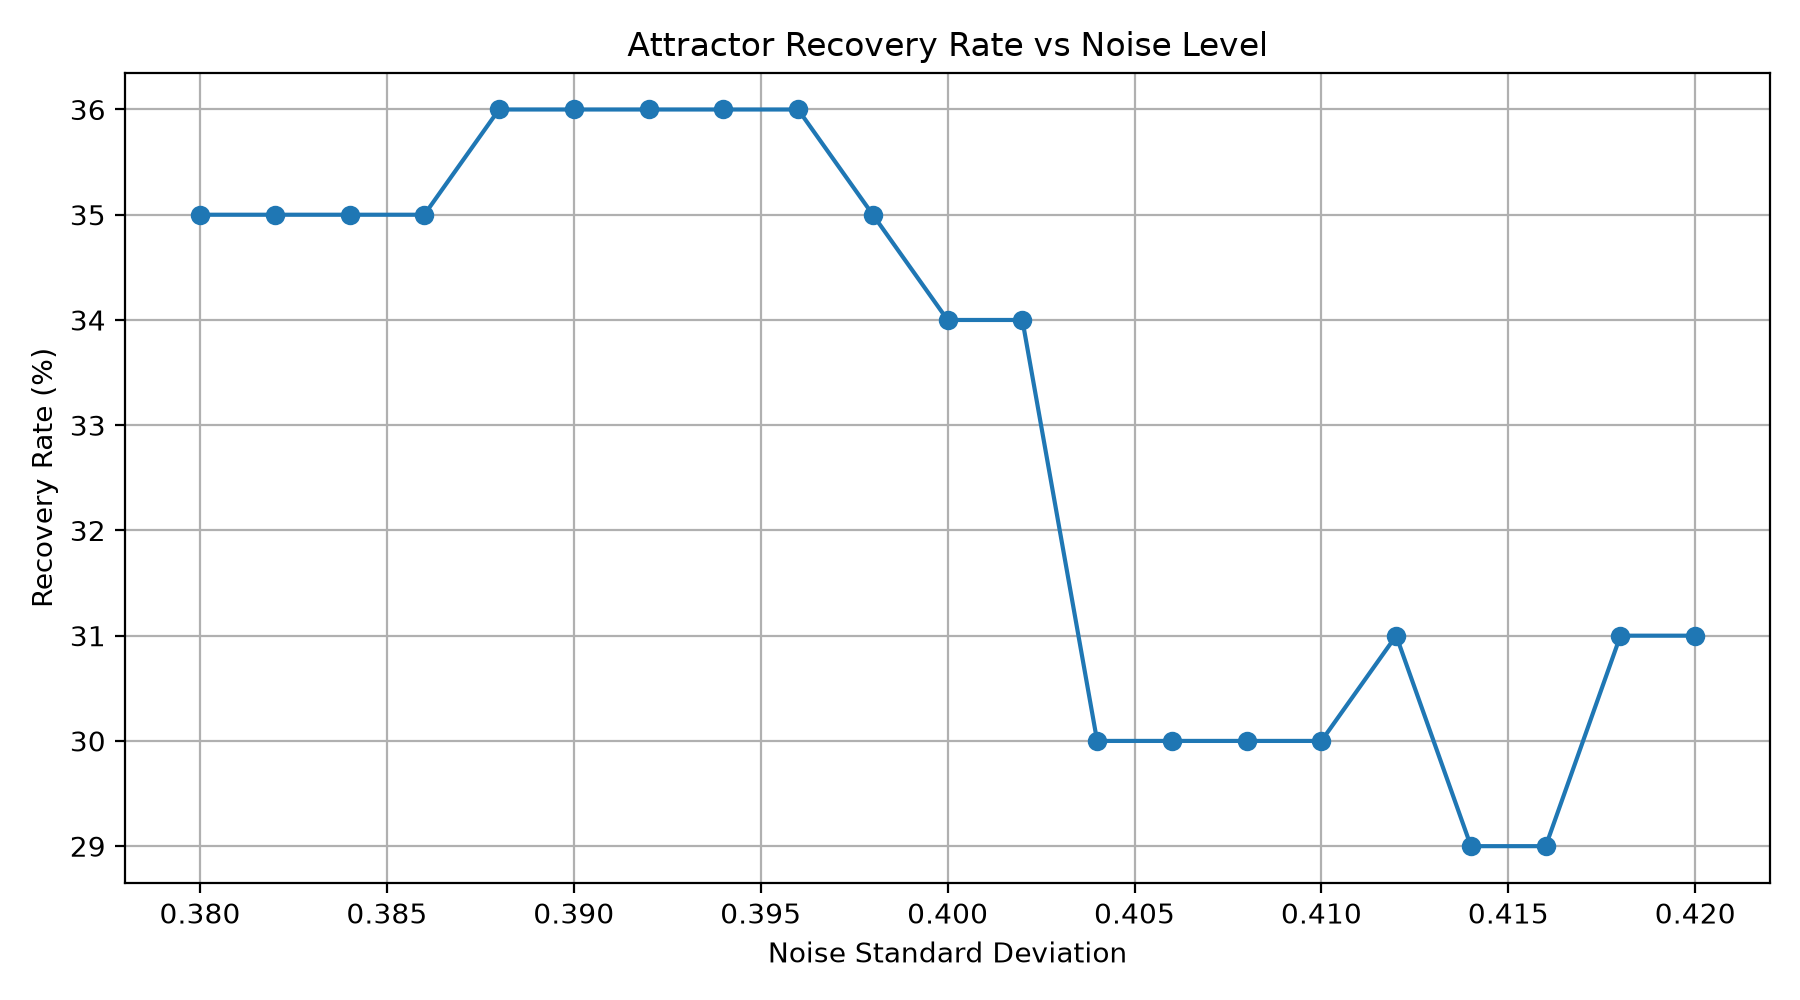
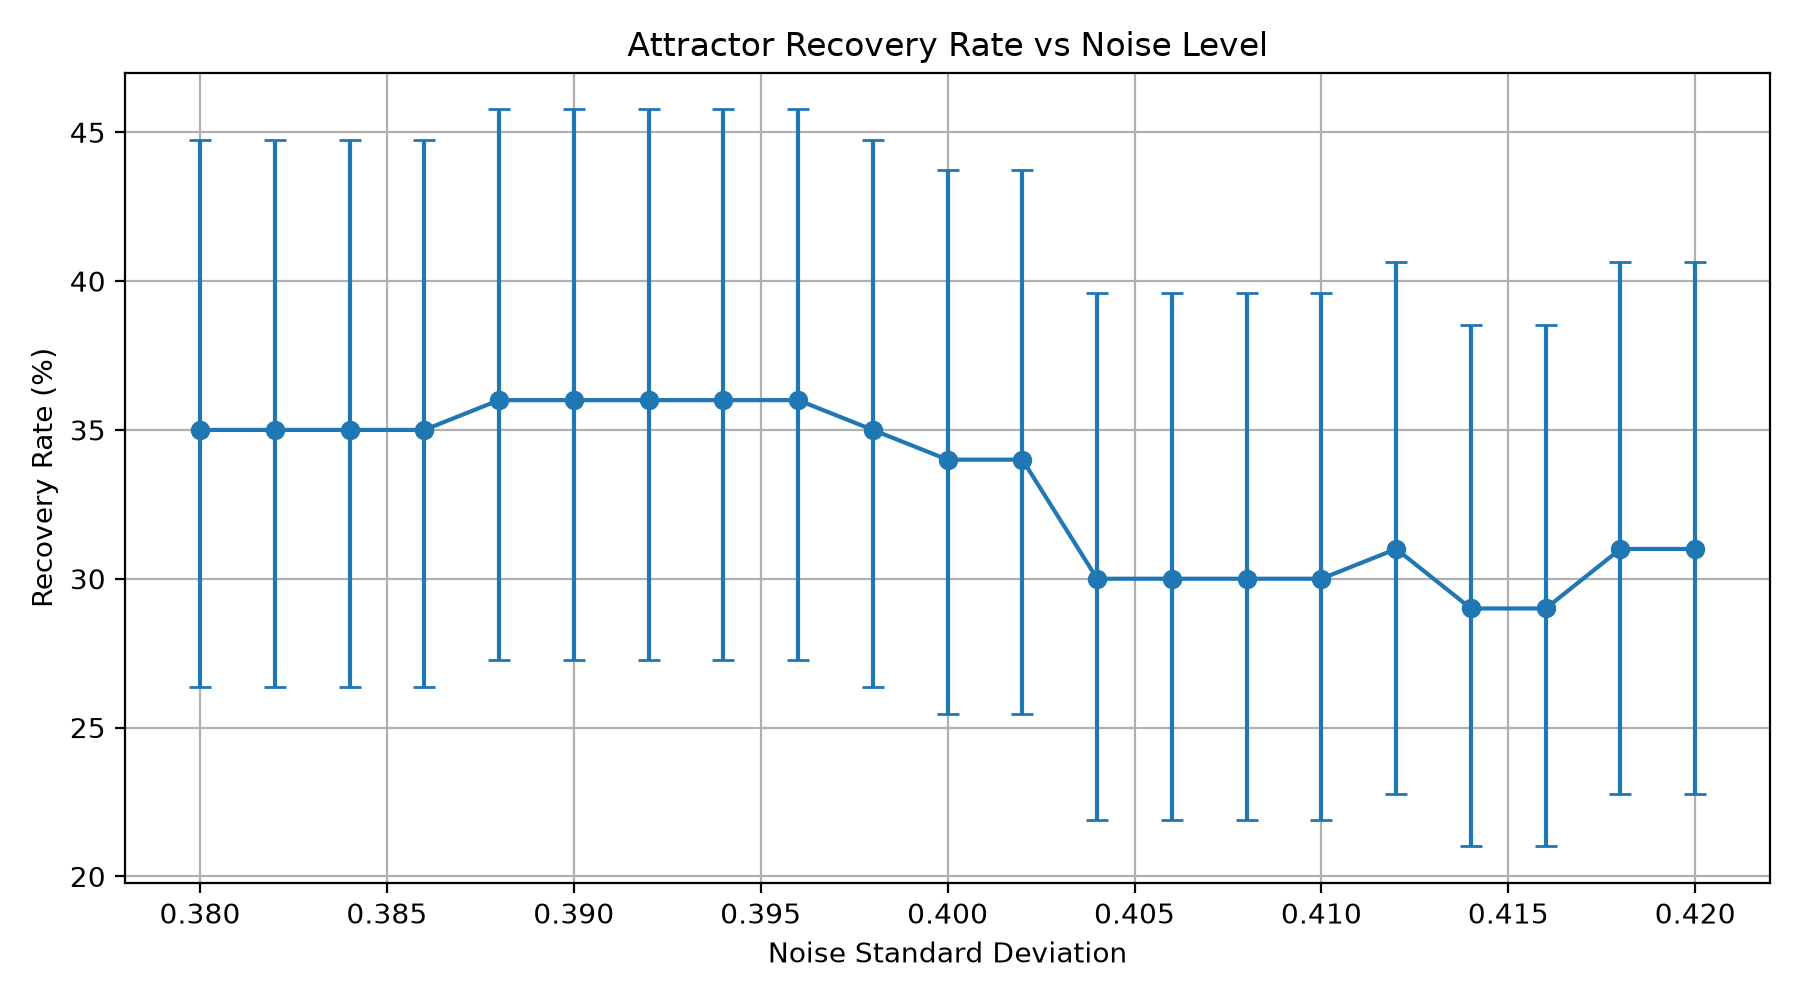
Run multi-seed noise recovery analysis with confidence intervals

diff --git a/run_test.py b/run_test.py
@@ -30,6 +30,23 @@ noise_steps = 100
 recovery_steps = 400
 stable_window = 10
 
+def wilson_interval(successes, total, z=1.96):
+    p = successes / total
+    denominator = 1 + z**2 / total
+
+    center = (
+        p + z**2 / (2 * total)
+    ) / denominator
+
+    margin = (
+        z * np.sqrt(
+            p * (1 - p) / total
+            + z**2 / (4 * total**2)
+        ) / denominator
+    )
+
+    return center - margin, center + margin
+
 results_dir = Path("results")
 results_dir.mkdir(exist_ok=True)
 
@@ -92,12 +109,18 @@ for noise in noise_levels:
             "final_error": final_error
         })
 
-    recovery_rate = len(recovery_times) / len(seeds)
+    successes = len(recovery_times)
+    total = len(seeds)
+
+    recovery_rate = successes / total
+
+    ci_low, ci_high = wilson_interval(
+        successes, total
+    )
 
     median_time = (
         float(np.median(recovery_times))
-        if recovery_times
-        else None
+        if recovery_times else None
     )
 
     mean_final_error = float(np.mean(final_errors))
@@ -105,15 +128,17 @@ for noise in noise_levels:
     summary_results.append({
         "noise": float(noise),
         "recovery_rate": recovery_rate,
+        "ci_low": ci_low,
+        "ci_high": ci_high,
         "median_recovery_time": median_time,
         "mean_final_error": mean_final_error
     })
 
     print(
         f"Noise={noise:.3f} | "
-        f"Recovery Rate={recovery_rate:.0%} | "
-        f"Median Time={median_time} | "
-        f"Mean Final Error={mean_final_error:.5f}"
+        f"Recovery={recovery_rate:.0%} | "
+        f"95% CI=[{ci_low:.0%}, {ci_high:.0%}] | "
+        f"Median Time={median_time}"
     )
 
 
@@ -138,7 +163,6 @@ with open(
     writer.writeheader()
     writer.writerows(all_results)
 
-
 # Save aggregated results
 with open(
     results_dir / "multi_seed_summary.csv",
@@ -151,6 +175,8 @@ with open(
         fieldnames=[
             "noise",
             "recovery_rate",
+            "ci_low",
+            "ci_high",
             "median_recovery_time",
             "mean_final_error"
         ]
@@ -172,11 +198,28 @@ recovery_rates = [
 
 plt.figure(figsize=(9, 5))
 
-plt.plot(
+
+ci_lows = [
+    item["ci_low"] * 100
+    for item in summary_results
+]
+
+ci_highs = [
+    item["ci_high"] * 100
+    for item in summary_results
+]
+
+plt.errorbar(
     noise_values,
     recovery_rates,
-    marker="o"
+    yerr=[
+        np.array(recovery_rates) - np.array(ci_lows),
+        np.array(ci_highs) - np.array(recovery_rates)
+    ],
+    marker="o",
+    capsize=4
 )
+
 
 plt.xlabel("Noise Standard Deviation")
 plt.ylabel("Recovery Rate (%)")
